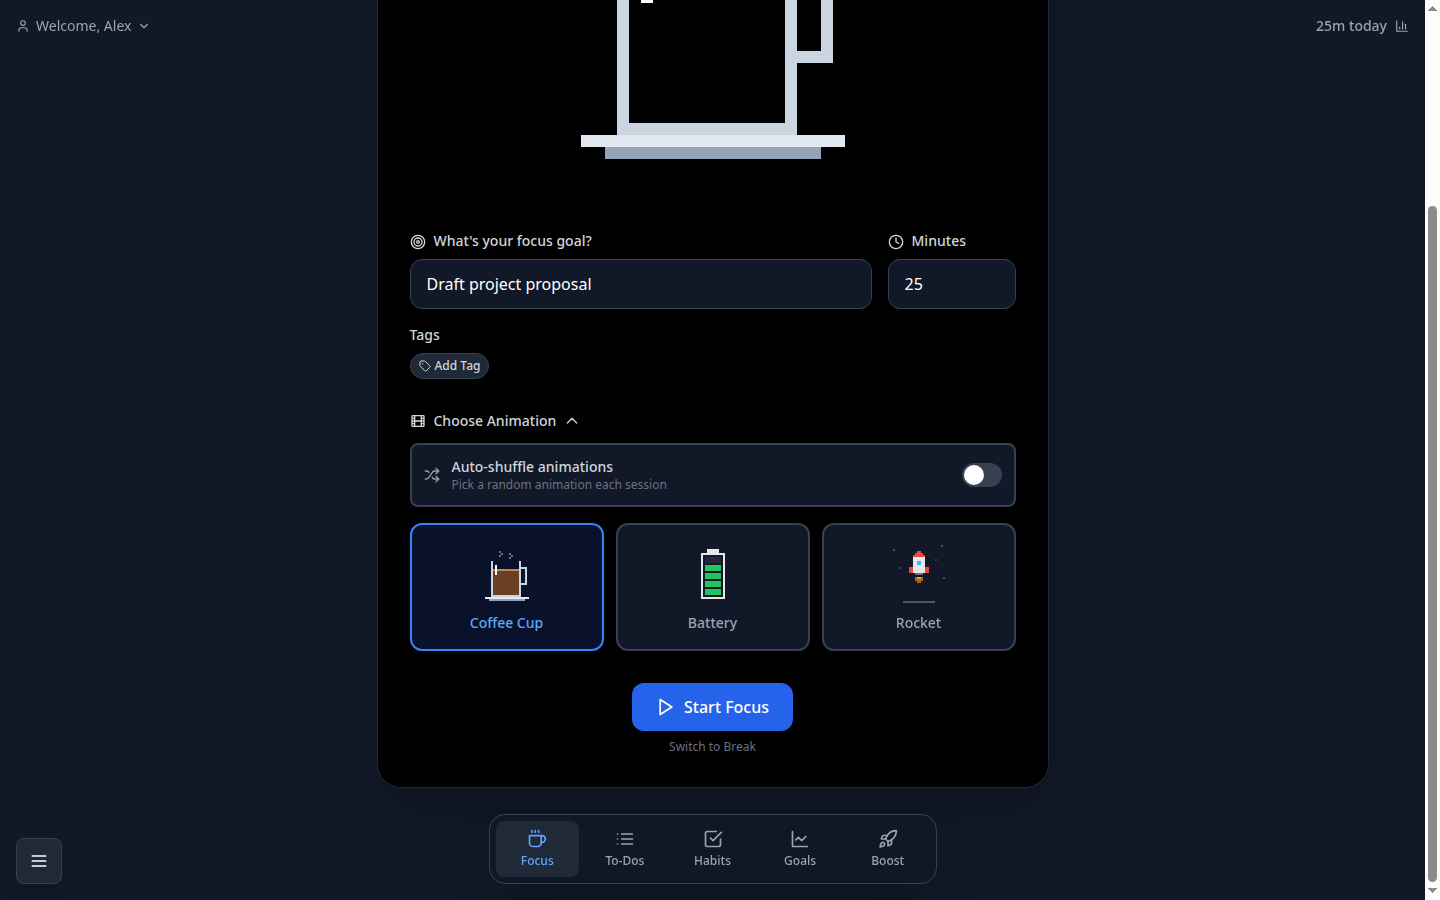
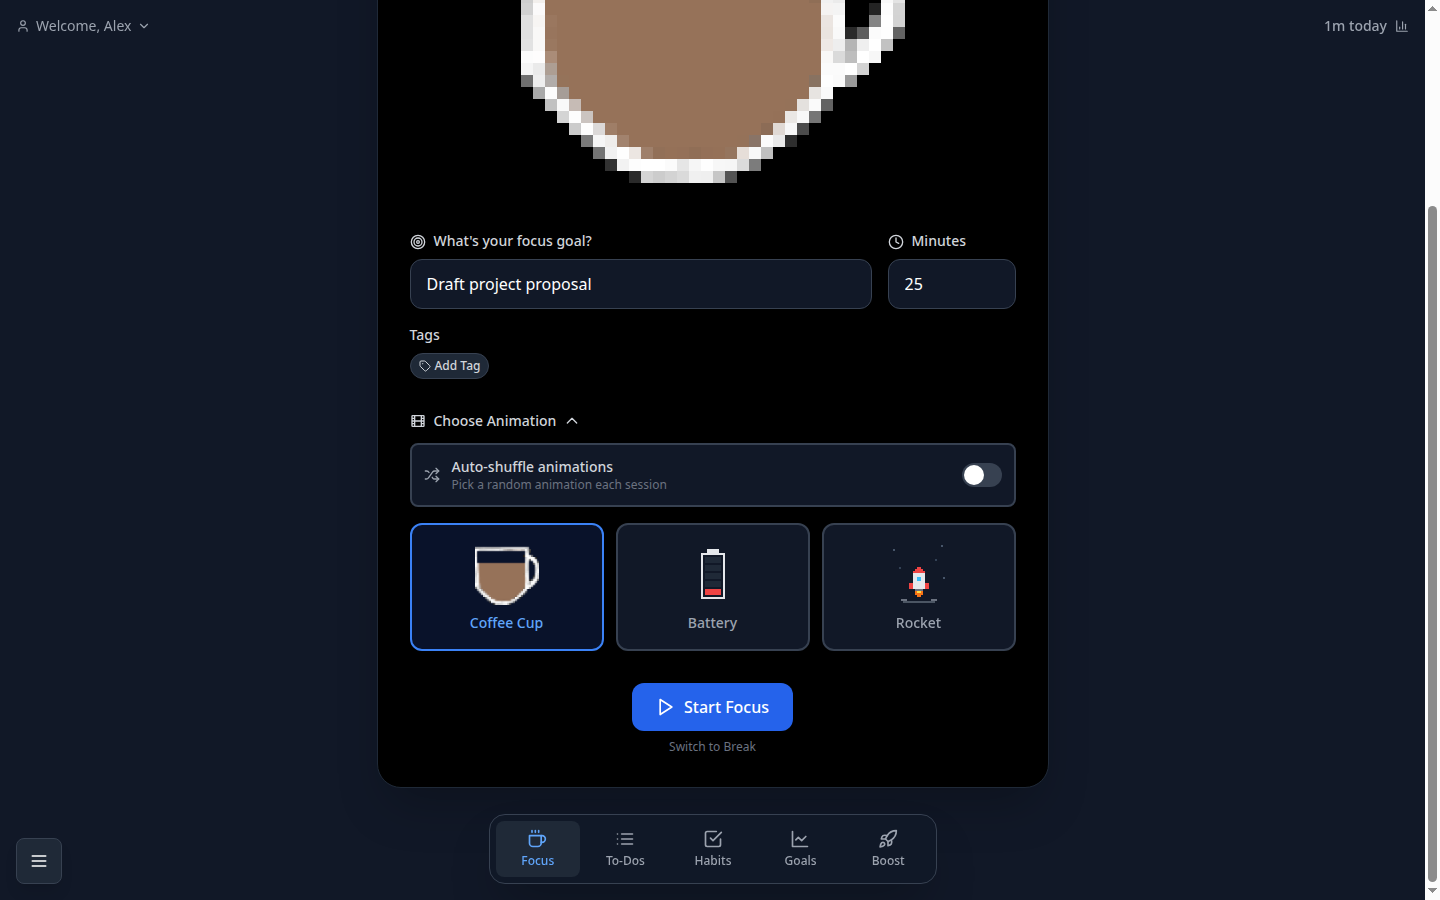
feat: restore original coffee cup, make battery drain (#13)

diff --git a/src/components/focus/PixelArt.tsx b/src/components/focus/PixelArt.tsx
@@ -1,5 +1,5 @@
-import type { ReactNode } from "react";
-import { metaOf, type AnimationType } from "./animations";
+import { useEffect, type ReactNode } from "react";
+import { BATTERY_LEVELS, metaOf, type AnimationType } from "./animations";
 
 type Pixel = readonly [x: number, y: number, width: number, height: number, color: string];
 
@@ -11,64 +11,30 @@ const FLICKER_CSS = `
 @media (prefers-reduced-motion: reduce) { .${FLICKER_CLASS} { animation: none; } }
 `;
 
-const GLASS = "#cbd5e1";
-const COFFEE = "#6b3e26";
-const CREMA = "#c08552";
-const STEAM = "#64748b";
-const CUP_ROWS = 16;
-
-function coffeeCup(step: number): Pixel[] {
-  const level = Math.min(CUP_ROWS, step);
-  const coffee: Pixel[] =
-    level > 0
-      ? [
-          [9, 27 - level, 13, level, COFFEE],
-          [9, 27 - level, 13, 1, CREMA],
-        ]
-      : [];
-  const steam: Pixel[] =
-    level >= CUP_ROWS - 4
-      ? [
-          [12, 7, 1, 1, STEAM],
-          [13, 6, 1, 1, STEAM],
-          [12, 5, 1, 1, STEAM],
-          [17, 8, 1, 1, STEAM],
-          [18, 7, 1, 1, STEAM],
-          [17, 6, 1, 1, STEAM],
-        ]
-      : [];
-  return [
-    ...steam,
-    ...coffee,
-    [8, 10, 1, 17, GLASS],
-    [22, 10, 1, 17, GLASS],
-    [8, 27, 15, 1, GLASS],
-    [10, 12, 1, 5, "#f8fafc"],
-    [23, 13, 3, 1, GLASS],
-    [25, 14, 1, 7, GLASS],
-    [23, 21, 3, 1, GLASS],
-    [5, 28, 22, 1, "#e2e8f0"],
-    [7, 29, 18, 1, "#94a3b8"],
-  ];
-}
-
-const CELLS = 5;
 const SHELL = "#e5e7eb";
-const EMPTY_CELL = "#1f2937";
+const CHARGE_LEFT = 12;
+const CHARGE_WIDTH = 8;
+const CHARGE_BOTTOM = 26;
+const SEGMENT_ROWS = 4;
+const SEGMENT_GAP = "#111827";
 
-const chargeColor = (charged: number) => (charged <= 1 ? "#ef4444" : charged === 2 ? "#f59e0b" : "#22c55e");
+const chargeColor = (fraction: number) => (fraction > 0.6 ? "#22c55e" : fraction > 0.3 ? "#f59e0b" : "#ef4444");
 
+/** Drains one row per frame: frame 1 is fully charged, the last frame is empty. */
 function battery(step: number): Pixel[] {
-  const charged = Math.min(CELLS, step);
-  const cells = Array.from({ length: CELLS }, (_, index): Pixel => [
-    12,
-    24 - index * 4,
-    8,
-    3,
-    index < charged ? chargeColor(charged) : EMPTY_CELL,
-  ]);
+  const level = Math.max(0, BATTERY_LEVELS - step);
+  const color = chargeColor(level / BATTERY_LEVELS);
+  const charge: Pixel[] = level > 0 ? [[CHARGE_LEFT, CHARGE_BOTTOM - level + 1, CHARGE_WIDTH, level, color]] : [];
+  // Thin gaps split the charge into the familiar battery segments.
+  const gaps = Array.from({ length: Math.floor(BATTERY_LEVELS / SEGMENT_ROWS) }, (_, index): Pixel => [
+    CHARGE_LEFT,
+    CHARGE_BOTTOM - (index + 1) * SEGMENT_ROWS + 1,
+    CHARGE_WIDTH,
+    1,
+    SEGMENT_GAP,
+  ]).filter(([, y]) => y > CHARGE_BOTTOM - level);
   const bolt: Pixel[] =
-    charged === CELLS
+    level === BATTERY_LEVELS
       ? [
           [25, 12, 2, 1, "#facc15"],
           [24, 13, 2, 1, "#facc15"],
@@ -83,7 +49,8 @@ function battery(step: number): Pixel[] {
     [10, 28, 12, 1, SHELL],
     [10, 6, 1, 23, SHELL],
     [21, 6, 1, 23, SHELL],
-    ...cells,
+    ...charge,
+    ...gaps,
     ...bolt,
   ];
 }
@@ -135,8 +102,7 @@ function rocket(step: number, frames: number): { pixels: Pixel[]; flame: Pixel[]
   };
 }
 
-function scene(type: AnimationType, step: number, frames: number): { pixels: Pixel[]; flame: Pixel[] } {
-  if (type === "coffee-cup") return { pixels: coffeeCup(step), flame: [] };
+function scene(type: Exclude<AnimationType, "coffee-cup">, step: number, frames: number): { pixels: Pixel[]; flame: Pixel[] } {
   if (type === "battery") return { pixels: battery(step), flame: [] };
   return rocket(step, frames);
 }
@@ -146,10 +112,29 @@ const toRects = (pixels: readonly Pixel[]): ReactNode[] =>
     <rect key={index} x={x} y={y} width={width} height={height} fill={color} />
   ));
 
+const coffeeFrameUrl = (frame: number) => `/animations/coffee-cup/${String(frame).padStart(2, "0")}.png`;
+
+let coffeeFramesRequested = false;
+
+/** Fetches every frame once up front so the first pass through the animation never blinks. */
+function preloadCoffeeFrames(frames: number): void {
+  if (coffeeFramesRequested) return;
+  coffeeFramesRequested = true;
+  for (let frame = 1; frame <= frames; frame++) new Image().src = coffeeFrameUrl(frame);
+}
+
 /** Draws `frame` (1-based) of a pixel-art animation on a 32×32 grid. */
 export function PixelArt({ type, frame, className, label }: { type: AnimationType; frame: number; className: string; label: string }) {
   const { frames } = metaOf(type);
-  const { pixels, flame: flamePixels } = scene(type, Math.min(frames, Math.max(1, frame)) - 1, frames);
+  const clamped = Math.min(frames, Math.max(1, frame));
+  useEffect(() => {
+    if (type === "coffee-cup") preloadCoffeeFrames(frames);
+  }, [type, frames]);
+  if (type === "coffee-cup") {
+    // eslint-disable-next-line @next/next/no-img-element -- frame-by-frame animation; next/image would re-optimize every frame
+    return <img src={coffeeFrameUrl(clamped)} alt={label} className={`${className} object-contain`} draggable={false} />;
+  }
+  const { pixels, flame: flamePixels } = scene(type, clamped - 1, frames);
   return (
     <svg viewBox={`0 0 ${GRID} ${GRID}`} shapeRendering="crispEdges" className={className} role="img" aria-label={label}>
       {flamePixels.length > 0 ? (

diff --git a/src/components/focus/animations.ts b/src/components/focus/animations.ts
@@ -1,5 +1,8 @@
 export type AnimationType = "coffee-cup" | "battery" | "rocket";
 
+/** Rows of charge the battery drains through; the extra frame is the empty battery. */
+export const BATTERY_LEVELS = 19;
+
 export interface AnimationMeta {
   readonly type: AnimationType;
   readonly title: string;
@@ -7,8 +10,8 @@ export interface AnimationMeta {
 }
 
 export const ANIMATIONS: readonly AnimationMeta[] = [
-  { type: "coffee-cup", title: "Coffee Cup", frames: 17 },
-  { type: "battery", title: "Battery", frames: 6 },
+  { type: "coffee-cup", title: "Coffee Cup", frames: 26 },
+  { type: "battery", title: "Battery", frames: BATTERY_LEVELS + 1 },
   { type: "rocket", title: "Rocket", frames: 30 },
 ];
 

diff --git a/README.md b/README.md
@@ -124,4 +124,4 @@ Built with Next.js 16, React 19, TypeScript, Tailwind CSS 4, dnd-kit and Rechart
 
 ## Status
 
-Personal project, used daily by its author. Not affiliated with any company or product of a similar name. There is no open-source license yet, so all rights are reserved; ask before reusing the code.
+Personal project, used daily by its author. The coffee-cup animation frames in `public/animations/coffee-cup/` are third-party artwork kept for private, personal use only; do not redistribute them. Not affiliated with any company or product of a similar name. There is no open-source license yet, so all rights are reserved; ask before reusing the code.
